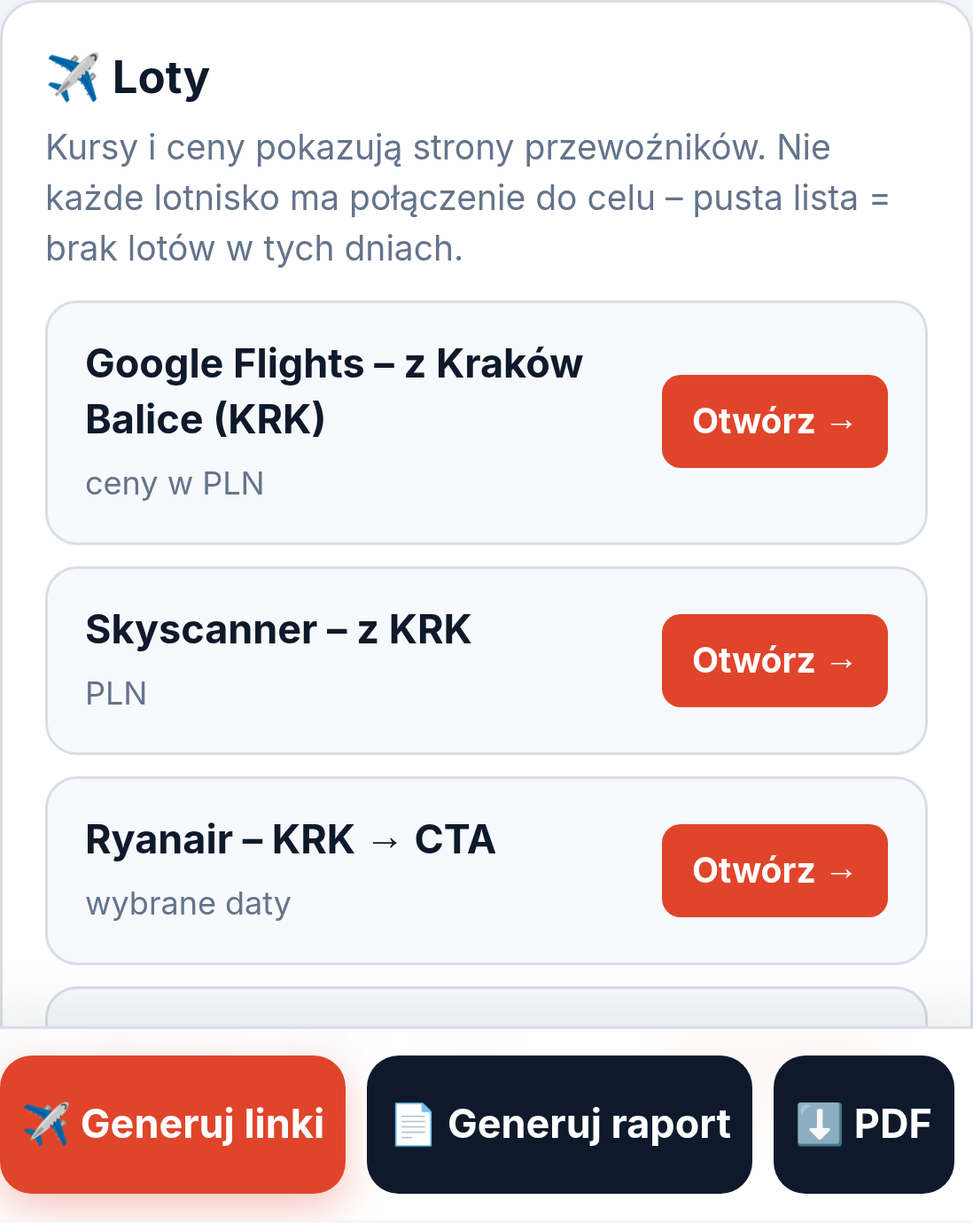
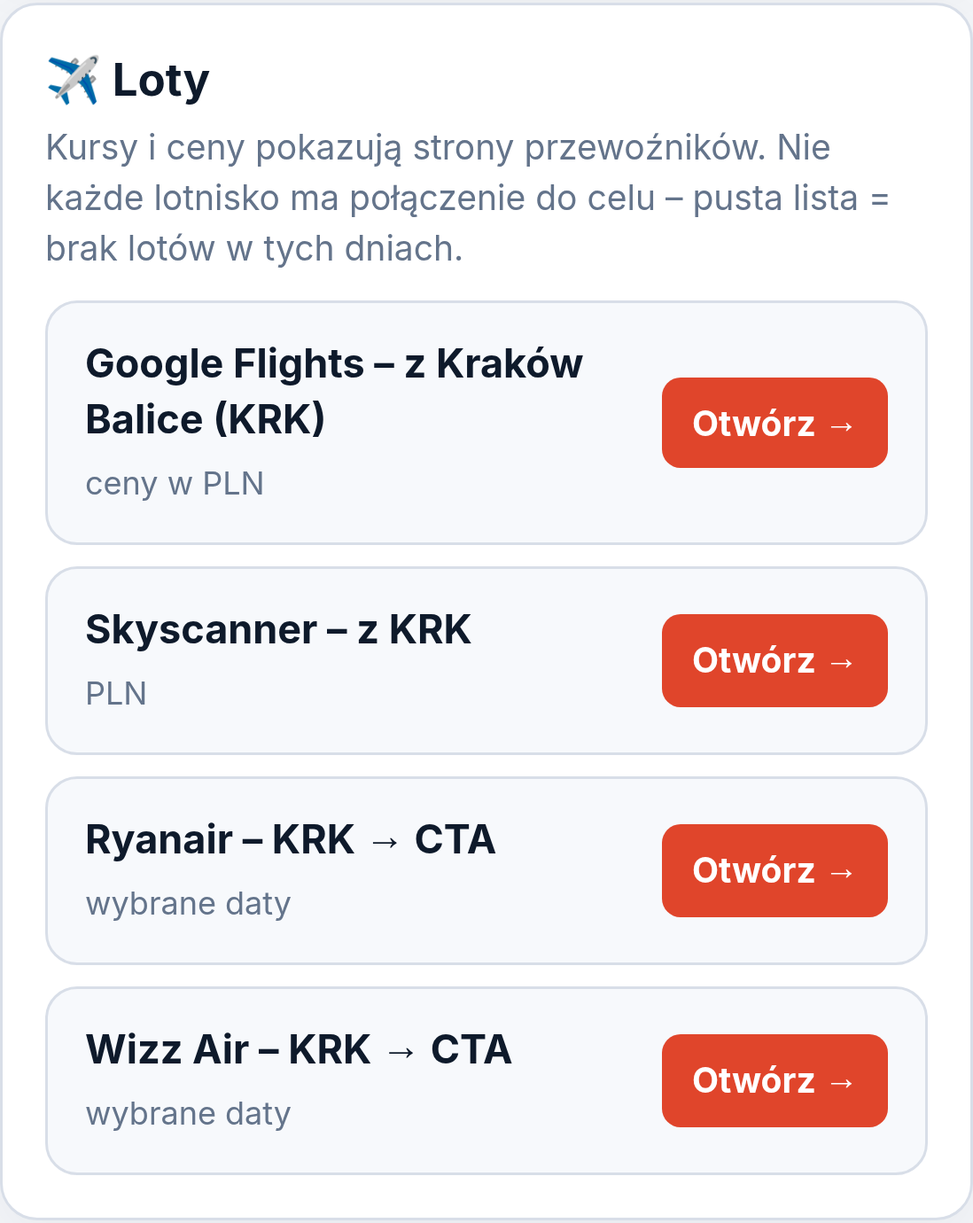
Wyszukiwanie lotów: prawdziwe ceny Ryanair (API), komunikat o braku lotów i alternatywy, loty w raporcie i PDF (v1.1)

diff --git a/js/flights.js b/js/flights.js
@@ -1,0 +1,121 @@
+/* Wyszukiwanie lotów – prawdziwe ceny z publicznego API Ryanair (CORS: *). Żadnych wymyślonych cen.
+   © Wojciech Wieczorek */
+'use strict';
+window.FL = (() => {
+  const L = window.PL, { AIRPORTS } = window.PD;
+  const RA = 'https://www.ryanair.com/api/views/locate/searchWidget/routes/pl/airport/';
+  const FF = 'https://services-api.ryanair.com/farfnd/v4/oneWayFares/';
+  const cache = new Map();
+  async function getJSON(url, tries = 2) {
+    if (cache.has(url)) return cache.get(url);
+    const p = (async () => {
+      for (let i = 0; i < tries; i++) {
+        try {
+          const ctl = new AbortController(); const t = setTimeout(() => ctl.abort(), 15000);
+          const r = await fetch(url, { signal: ctl.signal }); clearTimeout(t);
+          if (r.status === 404) return null;
+          if (r.ok) return await r.json();
+        } catch (_) { }
+        await new Promise(r => setTimeout(r, 600));
+      }
+      throw new Error('net');
+    })();
+    cache.set(url, p); p.catch(() => cache.delete(url));
+    return p;
+  }
+  // ograniczenie równoległości
+  async function pool(tasks, n = 6) { const out = []; let i = 0; await Promise.all(Array.from({ length: n }, async () => { while (i < tasks.length) { const k = i++; try { out[k] = await tasks[k](); } catch (e) { out[k] = { error: e }; } } })); return out; }
+
+  async function routes(code) { const j = await getJSON(RA + code); return (j || []).map(r => ({ code: r.arrivalAirport.code, name: r.arrivalAirport.name, city: r.arrivalAirport.city && r.arrivalAirport.city.name, country: r.arrivalAirport.country && r.arrivalAirport.country.name, lat: r.arrivalAirport.coordinates.latitude, lon: r.arrivalAirport.coordinates.longitude })); }
+  const monthKey = d => `${d.getFullYear()}-${String(d.getMonth() + 1).padStart(2, '0')}-01`;
+  // najtańszy lot każdego dnia w miesiącu (cena za 1 osobę, PLN)
+  async function perDay(from, to, months) {
+    const res = {};
+    const js = await Promise.all([...new Set(months)].map(m => getJSON(`${FF}${from}/${to}/cheapestPerDay?outboundMonthOfDate=${m}&currency=PLN`)));
+    js.forEach(j => ((j && j.outbound && j.outbound.fares) || []).forEach(f => { if (f.price && !f.unavailable && !f.soldOut) res[f.day] = { price: f.price.value, dep: f.departureDate, arr: f.arrivalDate }; }));
+    return res;
+  }
+  const dist = (a, b, c, d) => { const R = 6371, r = x => x * Math.PI / 180; const x = Math.sin(r(c - a) / 2) ** 2 + Math.cos(r(a)) * Math.cos(r(c)) * Math.sin(r(d - b) / 2) ** 2; return 2 * R * Math.asin(Math.sqrt(x)); };
+  const iso = L.iso, addDays = L.addDays;
+  const pax = f => Math.max(1, +f.adults || 1) + Math.max(0, +f.children || 0);
+  function bookUrl(f, o, d, out, back) {
+    return `https://www.ryanair.com/pl/pl/trip/flights/select?adults=${Math.max(1, +f.adults || 1)}&teens=0&children=${Math.max(0, +f.children || 0)}&infants=0&dateOut=${out}&dateIn=${back}&isConnectedFlight=false&isReturn=true&discount=0&promoCode=&originIata=${o}&destinationIata=${d}`;
+  }
+  // kombinacje tam/powrót o zadanej liczbie nocy
+  function combos(f, o, d, outMap, inMap, days, nights, exactOut) {
+    const r = [];
+    days.forEach(day => {
+      const a = outMap[day]; if (!a) return;
+      const back = iso(addDays(new Date(day + 'T00:00:00'), nights)); const b = inMap[back]; if (!b) return;
+      const pp = Math.round((a.price + b.price) * 100) / 100;
+      r.push({ airline: 'Ryanair', from: o, to: d, out: day, back, outDep: a.dep, outArr: a.arr, inDep: b.dep, inArr: b.arr, priceOut: a.price, priceIn: b.price, perPerson: pp, total: Math.round(pp * pax(f) * 100) / 100, exact: day === exactOut, url: bookUrl(f, o, d, day, back) });
+    });
+    return r;
+  }
+
+  async function search(ctx, onProgress = () => { }) {
+    const { f, dest, dt } = ctx;
+    const t0 = new Date();
+    const out = { checkedAt: t0, source: 'Ryanair (publiczne API cen)', results: [], exactFound: false, message: '', alternatives: { otherAirports: [], nearbyDest: [] }, errors: 0, searched: [] };
+    if (!dest.iata) { out.message = 'Nie znam kodu lotniska celu – wybierz cel z listy podpowiedzi albo wpisz kod IATA (np. CTA).'; return out; }
+    const destCodes = [dest.iata, ...(dest.alt || [])];
+    const origins = f.origin === 'ALL' ? AIRPORTS.map(a => a.code) : [f.origin];
+    const nights = dt.nights;
+    // dni wylotu: dokładne ±3 dni albo cały miesiąc
+    let days;
+    if (dt.mode === 'month') { days = []; for (let d = new Date(dt.monthStart); d <= dt.monthEnd; d = addDays(d, 1)) days.push(iso(d)); }
+    else days = [-3, -2, -1, 0, 1, 2, 3].map(k => iso(addDays(dt.start, k)));
+    const today = iso(new Date()); days = days.filter(d => d >= today);
+    const exactOut = dt.mode === 'exact' ? iso(dt.start) : null;
+    const outMonths = days.map(d => d.slice(0, 7) + '-01');
+    const inMonths = days.map(d => monthKey(addDays(new Date(d + 'T00:00:00'), nights)));
+
+    onProgress('Sprawdzam połączenia z lotnisk…');
+    const rts = await pool(origins.map(o => () => routes(o)));
+    const pairs = [];
+    origins.forEach((o, i) => { const r = rts[i]; if (!r || r.error) { if (r && r.error) out.errors++; return; } destCodes.forEach(dc => { if (r.some(x => x.code === dc)) pairs.push([o, dc]); }); });
+    out.searched = pairs.map(p => p.join('→'));
+    onProgress(pairs.length ? `Szukam cen (${pairs.length} ${pairs.length === 1 ? 'trasa' : 'trasy'})…` : 'Brak bezpośrednich tras – szukam alternatyw…');
+    const res = await pool(pairs.map(([o, dc]) => async () => {
+      const [om, im] = await Promise.all([perDay(o, dc, outMonths), perDay(dc, o, inMonths)]);
+      return combos(f, o, dc, om, im, days, nights, exactOut);
+    }));
+    res.forEach(r => { if (Array.isArray(r)) out.results.push(...r); else out.errors++; });
+    out.results.sort((a, b) => a.total - b.total);
+    out.exactFound = dt.mode === 'month' ? out.results.length > 0 : out.results.some(r => r.exact);
+    const oName = f.origin === 'ALL' ? 'żadnego lotniska w Polsce' : `${(AIRPORTS.find(a => a.code === f.origin) || {}).name} (${f.origin})`;
+    const when = dt.mode === 'month' ? `w miesiącu ${L.MONTHS[dt.m - 1]} ${dt.y} (pobyt ${nights} nocy)` : `w wybranych datach (${L.dm(dt.start)}–${L.dmy(dt.end)})`;
+    if (!out.exactFound) {
+      out.message = out.results.length
+        ? `Brak lotów Ryanair z ${oName} do ${dest.city} (${destCodes.join('/')}) dokładnie ${when} — poniżej najbliższe terminy (±3 dni) z tym samym czasem pobytu.`
+        : `Brak lotów Ryanair z ${oName} do ${dest.city} (${destCodes.join('/')}) ${when} — spróbuj innego lotniska, dat lub miesiąca.`;
+      // alternatywy: inne lotniska w Polsce (tylko gdy szukano jednego)
+      let others = [], ors = [];
+      if (f.origin !== 'ALL') {
+        onProgress('Sprawdzam inne lotniska w Polsce…');
+        others = AIRPORTS.map(a => a.code).filter(c => c !== f.origin);
+        ors = await pool(others.map(o => () => routes(o)));
+        const op = []; others.forEach((o, i) => { const r = ors[i]; if (Array.isArray(r)) destCodes.forEach(dc => { if (r.some(x => x.code === dc)) op.push([o, dc]); }); });
+        const ores = await pool(op.map(([o, dc]) => async () => { const [om, im] = await Promise.all([perDay(o, dc, outMonths), perDay(dc, o, inMonths)]); return combos(f, o, dc, om, im, days, nights, exactOut); }));
+        ores.forEach(r => Array.isArray(r) && out.alternatives.otherAirports.push(...r));
+        out.alternatives.otherAirports.sort((a, b) => (b.exact - a.exact) || (a.total - b.total));
+      }
+      // alternatywy: pobliskie lotniska docelowe (do 250 km) z wybranych lotnisk
+      onProgress('Sprawdzam pobliskie lotniska docelowe…');
+      const near = new Map();
+      [...origins, ...others].forEach((o, i) => { const r = i < origins.length ? rts[i] : ors[i - origins.length]; if (Array.isArray(r) && dest.lat) r.forEach(x => { const km = dist(dest.lat, dest.lon, x.lat, x.lon); if (km <= 250 && !destCodes.includes(x.code)) { if (!near.has(x.code) || near.get(x.code).km > km) near.set(x.code, { ...x, km, from: [] }); near.get(x.code).from.push(o); } }); });
+      const nl = [...near.values()].sort((a, b) => a.km - b.km).slice(0, 4);
+      nl.forEach(n => { n.from.sort((a, b) => (origins.includes(b) - origins.includes(a))); });
+      const nres = await pool(nl.flatMap(n => n.from.slice(0, 3).map(o => async () => { const [om, im] = await Promise.all([perDay(o, n.code, outMonths), perDay(n.code, o, inMonths)]); return combos(f, o, n.code, om, im, days, nights, exactOut).map(x => ({ ...x, km: Math.round(n.km), toName: n.name })); })));
+      nres.forEach(r => Array.isArray(r) && out.alternatives.nearbyDest.push(...r));
+      out.alternatives.nearbyDest.sort((a, b) => (b.exact - a.exact) || (a.total - b.total));
+    }
+    out.doneAt = new Date();
+    return out;
+  }
+  const hm = s => s ? s.slice(11, 16) : '';
+  const fmtDate = s => { const d = new Date(s.slice(0, 10) + 'T00:00:00'); return `${L.DOW_S[d.getDay()]} ${L.dm(d)}`; };
+  const zl2 = v => `${v.toLocaleString('pl-PL', { minimumFractionDigits: 2, maximumFractionDigits: 2 }).replace(/\u00a0|\u202f/g, ' ')} zł`;
+  const stamp = d => `${L.dmy(d)}, ${String(d.getHours()).padStart(2, '0')}:${String(d.getMinutes()).padStart(2, '0')}`;
+  return { search, hm, fmtDate, zl2, stamp, pax };
+})();

diff --git a/js/app.js b/js/app.js
@@ -120,6 +120,54 @@
       <p class="src">${esc(w.source)}${w.sea ? ` · morze ok. ${Math.round(w.sea)}°C (te same dni rok wcześniej)` : ''}. Dane: Open-Meteo.com (CC BY 4.0).</p>`;
   }
 
+  // --- prawdziwe loty (Ryanair API) ---
+  const F = window.FL;
+  function legHtml(label, date, dep, arr, from, to) {
+    return `<div class="fl-leg"><span class="d">${label} ${esc(F.fmtDate(date))}</span><span class="t">${esc(F.hm(dep))} → ${esc(F.hm(arr))}</span><span class="r">${esc(from)} → ${esc(to)}</span></div>`;
+  }
+  function flCard(r, extra = '') {
+    const n = F.pax(ctx.f);
+    return `<div class="fl-card${r.exact ? ' exact' : ''}" data-total="${r.total}">
+      <div class="fl-top"><div><span class="fl-air">✈ ${esc(r.airline)} · bez przesiadek</span>${r.exact ? '<span class="fl-badge">Twoje daty</span>' : ''}${extra}</div>
+      <div><div class="fl-price">${F.zl2(r.total)}</div><div class="fl-pp">${n > 1 ? `${F.zl2(r.perPerson)} / os. × ${n}` : 'za osobę, tam i z powrotem'}</div></div></div>
+      ${legHtml('Wylot', r.out, r.outDep, r.outArr, r.from, r.to)}
+      ${legHtml('Powrót', r.back, r.inDep, r.inArr, r.to, r.from)}
+      <a class="fl-book" href="${esc(r.url)}" target="_blank" rel="noopener">Rezerwuj w Ryanair →</a></div>`;
+  }
+  function renderFlights() {
+    const el = $('#flightsCard'), c = ctx; el.hidden = false;
+    const fl = c.fl;
+    if (!fl || fl.loading) { el.innerHTML = `<div class="fl-head"><h3>✈ Znalezione loty</h3></div><div class="fl-load"><span class="spin"></span><span id="flProg">${esc((fl && fl.progress) || 'Szukam lotów…')}</span></div>`; return; }
+    if (fl.failed) { el.innerHTML = `<h3>✈ Znalezione loty</h3><div class="fl-msg">Nie udało się połączyć z wyszukiwarką lotów (brak internetu?). Spróbuj ponownie albo użyj linków poniżej.</div><button class="btn ghost fl-more" id="flRetry">Spróbuj ponownie</button>`; $('#flRetry').onclick = () => run(); return; }
+    const r = fl.results;
+    let h = `<div class="fl-head"><h3>✈ Znalezione loty</h3></div><p class="fl-stamp">Ceny z dnia ${esc(F.stamp(fl.checkedAt))} · źródło: ${esc(fl.source)} · ${r.length} ${r.length === 1 ? 'wynik' : 'wyników'}, od najtańszego</p>`;
+    if (fl.message) h += `<div class="fl-msg">${esc(fl.message)}</div>`;
+    if (r.length) {
+      h += r.slice(0, 6).map(x => flCard(x)).join('');
+      if (r.length > 6) h += `<details class="more"><summary>Pokaż więcej wyników (${r.length - 6})</summary>${r.slice(6, 40).map(x => flCard(x)).join('')}</details>`;
+    }
+    const A = fl.alternatives || {};
+    if (!fl.exactFound && (A.otherAirports.length || A.nearbyDest.length)) {
+      h += `<div class="fl-alt">`;
+      if (A.otherAirports.length) {
+        const best = {}; A.otherAirports.forEach(x => { if (!best[x.from]) best[x.from] = x; });
+        h += `<h4>💡 Z innych lotnisk w Polsce</h4>` + Object.values(best).slice(0, 4).map(x => flCard(x, '') + `<button class="btn ghost use" data-origin="${x.from}">Szukaj z ${esc((AIRPORTS.find(a => a.code === x.from) || {}).name || x.from)} (${x.from})</button>`).join('');
+      }
+      if (A.nearbyDest.length) {
+        const best = {}; A.nearbyDest.forEach(x => { const k = x.from + x.to; if (!best[k]) best[k] = x; });
+        h += `<h4>💡 Pobliskie lotniska docelowe</h4>` + Object.values(best).slice(0, 4).map(x => flCard(x, `<span class="fl-badge" style="background:#3b82f6">${esc(x.toName)} · ${x.km} km</span>`) + `<button class="btn ghost use" data-dest="${x.to}" data-origin="${x.from}">Szukaj do ${esc(x.toName)} (${x.to})</button>`).join('');
+      }
+      h += `</div>`;
+    } else if (!r.length && !fl.message) h += `<div class="fl-msg">Brak wyników.</div>`;
+    h += `<p class="fl-note">Wyszukiwanie obejmuje loty bezpośrednie Ryanair (najtańszy lot danego dnia). Wizz Air i inne linie – sprawdź linkami poniżej. Cena łączna = taryfa za osobę × liczba osób, bez bagażu rejestrowanego; ostateczną cenę pokaże strona przewoźnika.</p>`;
+    el.innerHTML = h;
+    el.querySelectorAll('.use').forEach(b => b.onclick = () => {
+      if (b.dataset.origin) $('#origin').value = b.dataset.origin;
+      if (b.dataset.dest) { const d = DEST.find(x => x.iata === b.dataset.dest || (x.alt || []).includes(b.dataset.dest)); $('#dest').value = d ? `${d.name} (${d.iata})` : b.dataset.dest; }
+      save(); sums(); run().then(() => $('#flightsCard').scrollIntoView({ behavior: 'smooth', block: 'start' }));
+    });
+  }
+
   async function run() {
     const f = read();
     if (!f.dest || !f.dest.trim()) { steps[0].open = true; $('#err').textContent = 'Wpisz cel podróży (np. Katania) albo wybierz z podpowiedzi.'; $('#err').hidden = false; $('#dest').focus(); return null; }
@@ -127,12 +175,15 @@
     $('#err').hidden = true; save();
     ctx = compute(); render();
     const my = ctx;
+    my.fl = { loading: true, progress: 'Szukam lotów…' }; renderFlights();
+    my.flPromise = F.search(my, m => { if (ctx === my && my.fl && my.fl.loading) { my.fl.progress = m; const p = document.getElementById('flProg'); if (p) p.textContent = m; } })
+      .then(r => { my.fl = r; }).catch(() => { my.fl = { failed: true }; }).finally(() => { if (ctx === my) renderFlights(); });
     my.wxPromise = L.weather(my.dest, my.dt).then(w => { my.wx = w; }).catch(() => { my.wx = null; }).finally(() => { if (ctx === my) renderWeather(); });
     return ctx;
   }
   form.addEventListener('submit', async e => { e.preventDefault(); if (await run()) $('#summary').scrollIntoView({ behavior: 'smooth', block: 'start' }); });
 
-  async function ready() { if (!ctx) await run(); if (!ctx) return null; await Promise.race([ctx.wxPromise, new Promise(r => setTimeout(r, 8000))]); return ctx; }
+  async function ready() { if (!ctx) await run(); if (!ctx) return null; await Promise.race([Promise.all([ctx.wxPromise, ctx.flPromise]), new Promise(r => setTimeout(r, 30000))]); return ctx; }
 
   // --- raport HTML (A4) ---
   let lastHtml = '';
@@ -156,5 +207,5 @@
   $('#pdf2').addEventListener('click', e => doPdf(e.currentTarget));
 
   if ('serviceWorker' in navigator && location.protocol === 'https:') navigator.serviceWorker.register('sw.js').catch(() => { });
-  window.__planer = { run, get ctx() { return ctx; } };
+  window.__planer = { run, ready, get ctx() { return ctx; } };
 })();

diff --git a/js/report.js b/js/report.js
@@ -61,6 +61,20 @@ window.REPORT = (() => {
     const flMore = fl.length > (f.origin === 'ALL' ? 12 : 8) ? `<p class="footnote">+ ${fl.length - (f.origin === 'ALL' ? 12 : 8)} kolejnych linków (Ryanair / Wizz Air dla każdego lotniska) – w aplikacji i na liście linków na końcu raportu.</p>` : '';
     fl.slice(f.origin === 'ALL' ? 12 : 8).forEach(i => reg(i.label, i.url));
 
+    // --- Prawdziwe loty ---
+    const F = window.FL, FLs = c.fl && c.fl.results ? c.fl : null;
+    let realFl = '';
+    if (!FLs) realFl = '<p class="tl-note">Wyszukiwanie lotów nie zakończyło się (brak połączenia) – użyj linków poniżej.</p>';
+    else {
+      const rows = FLs.results.slice(0, 6);
+      const alt = (!FLs.exactFound ? [...FLs.alternatives.otherAirports.slice(0, 3), ...FLs.alternatives.nearbyDest.slice(0, 3)] : []);
+      const row = (r, n, tag = '') => `<tr${r.exact ? ' class="highlight"' : ''}><td>${A(reg(`Ryanair ${r.from}→${r.to} ${r.out}/${r.back}`, r.url), `${r.from} ⇄ ${r.to}`)}${tag}</td><td>${esc(F.fmtDate(r.out))}<br>${esc(F.fmtDate(r.back))}</td><td>${esc(F.hm(r.outDep))}–${esc(F.hm(r.outArr))}<br>${esc(F.hm(r.inDep))}–${esc(F.hm(r.inArr))}</td><td>Ryanair</td><td>bez przesiadek</td><td class="price">${esc(F.zl2(r.total))}${persons > 1 ? `<br><span class="muted">${esc(F.zl2(r.perPerson))}/os.</span>` : ''}</td><td>${A(r.url, 'Rezerwuj →', 'book-link')}</td></tr>`;
+      realFl = (FLs.message ? `<div class="tl-note" style="margin-bottom:4px">${esc(FLs.message)}</div>` : '')
+        + (rows.length || alt.length ? `<table><thead><tr><th>Kierunek</th><th>Data</th><th>Godziny</th><th>Przewoźnik</th><th>Przesiadki</th><th>Cena${persons > 1 ? ` (${persons} os.)` : ''}</th><th></th></tr></thead><tbody>${rows.map((r, n) => row(r, n)).join('')}${alt.map(r => row(r, 0, `<br><span class="muted">alternatywa${r.km ? ` · ${esc(r.toName)} ${r.km} km od celu` : ' · inne lotnisko'}</span>`)).join('')}</tbody></table>` : '')
+        + `<p class="footnote">Prawdziwe ceny z publicznego API Ryanair (najtańszy lot danego dnia, tam i z powrotem), pobrane ${esc(F.stamp(FLs.checkedAt))}. Cena łączna = taryfa za osobę × ${persons}; zwykle bez bagażu rejestrowanego. Ceny zmieniają się – sprawdź przed rezerwacją. Wizz Air i inne linie: linki poniżej.</p>`;
+    }
+    const bestFl = FLs && FLs.results.length ? (FLs.results.find(r => r.exact) || FLs.results[0]) : null;
+
     // --- Nocleg ---
     const accRows = G('nocleg').items.map((i, n) => `<tr${n === 0 ? ' class="highlight"' : ''}><td>${n === 0 ? '<span class="tag">1</span>' : ''}${A(reg(i.label, i.url), esc(i.label))}</td><td>${esc(ACC[f.accType] || 'dowolny')}</td><td>${f.breakfast === 'tak' || i.kind === 'bf' ? 'tak' : f.breakfast === 'nie' ? 'nie' : 'obojętne'}</td><td>${esc(DIST[f.distance])}</td><td>${dt.nights}</td><td class="chk">sprawdź</td><td>${A(i.url, 'Szukaj →', 'book-link')}</td></tr>`).join('');
 
@@ -95,6 +109,7 @@ window.REPORT = (() => {
 <div class="summary">
  <div class="summary-card best"><div class="label">Wariant oszczędny (szacunek)</div><div class="total">ok. ${fmt(est.low)}</div><div class="breakdown">Loty ~${fmt(est.flights[0])} + nocleg ~${fmt(est.accom[0])}<br>+ jedzenie, transport${est.att ? ', bilety' : ''} (taniej)</div></div>
  <div class="summary-card"><div class="label">Wariant wygodniejszy (szacunek)</div><div class="total">ok. ${fmt(est.high)}</div><div class="breakdown">Loty ~${fmt(est.flights[1])} + nocleg ~${fmt(est.accom[1])}<br>+ jedzenie, transport${est.att ? ', bilety' : ''} (wygodniej)</div></div>
+ ${bestFl ? `<div class="summary-card"><div class="label">Najtańszy znaleziony lot</div><div class="total">${esc(F.zl2(bestFl.total))}</div><div class="breakdown">Ryanair ${bestFl.from} ⇄ ${bestFl.to}, ${esc(F.fmtDate(bestFl.out))} – ${esc(F.fmtDate(bestFl.back))}<br>prawdziwa cena, z dnia ${esc(F.stamp(FLs.checkedAt))}</div></div>` : ''}
  ${est.budget ? `<div class="summary-card"><div class="label">Twój budżet</div><div class="total">${fmt(est.budget)}</div><div class="breakdown">${est.low > est.budget ? 'Może nie wystarczyć – krótszy pobyt / hostel / inny miesiąc.' : est.high > est.budget ? 'Wystarczy przy tańszych wyborach.' : 'Powinien wystarczyć.'}</div></div>` : ''}
 </div>
 <p class="footnote">Kwoty to orientacyjne widełki z wbudowanego modelu cen (poziom cen kierunku, sezon, liczba osób) – <strong>nie są cenami ofert</strong>. Aktualne ceny pokazują linki poniżej.</p>
@@ -105,7 +120,9 @@ window.REPORT = (() => {
   <table><thead><tr><th>Odcinek</th><th>Środek</th><th>Info</th><th></th></tr></thead><tbody>${xr}</tbody></table>
   <p class="footnote">${esc(dest.xfer || 'Najtańszy zwykle autobus lub pociąg – sprawdź rozkład w Google Maps.')} Ceny i rozkłady sprawdź przed wyjazdem.</p></div>
 </div>
-<h2>Loty</h2>
+<h2>Loty – znalezione (Ryanair, ceny z dnia ${FLs ? esc(F.stamp(FLs.checkedAt)) : '—'})</h2>
+${realFl}
+<h3>Inne wyszukiwarki lotów</h3>
 <table><thead><tr><th>Trasa</th><th>Daty</th><th>Wyszukiwarka</th><th>Uwagi</th><th>Cena</th><th></th></tr></thead><tbody>${flRows}</tbody></table>
 <p class="footnote">Najtańsze taryfy tanich linii zwykle bez bagażu rejestrowanego. ${dt.sample ? 'Tryb „miesiąc”: Skyscanner i Ryanair pokazują cały miesiąc, pozostałe linki mają przykładowe daty – zmień je na stronie.' : ''}</p>
 <h2>Nocleg (${dt.nights} nocy, ${f.breakfast === 'tak' ? 'ze śniadaniem' : f.breakfast === 'nie' ? 'bez śniadania' : 'śniadanie obojętne'}, Booking.com)</h2>

diff --git a/js/pdf.js b/js/pdf.js
@@ -107,7 +107,19 @@ window.PDFR = (() => {
       { columnStyles: { 0: { cellWidth: 30 }, 1: { cellWidth: 34 }, 3: { cellWidth: 22 } }, ...linkCol(3, xi.map(i => reg(i.label, i.url)), () => 'Sprawdź →') });
     if (dest.xfer) para(dest.xfer + ' Rozkłady i ceny sprawdź przed wyjazdem.', M, CW, 6.8, 'normal', MUTED);
 
-    h2('Loty');
+    const FLs = c.fl && c.fl.results ? c.fl : null, F = window.FL;
+    h2(`Loty – znalezione (Ryanair${FLs ? ', ceny z dnia ' + F.stamp(FLs.checkedAt) : ''})`);
+    if (!FLs) para('Wyszukiwanie lotów nie zakończyło się (brak połączenia) – użyj linków poniżej.', M, CW, 7.5, 'bold', [122, 42, 28]);
+    else {
+      if (FLs.message) para(FLs.message, M, CW, 7.5, 'bold', [122, 42, 28]);
+      const alt = !FLs.exactFound ? [...FLs.alternatives.otherAirports.slice(0, 3), ...FLs.alternatives.nearbyDest.slice(0, 3)] : [];
+      const rr = [...FLs.results.slice(0, 6), ...alt];
+      if (rr.length) table(['Kierunek', 'Data', 'Godziny', 'Przewoźnik', `Cena${persons > 1 ? ` (${persons} os.)` : ''}`, ''],
+        rr.map(r => [`${r.from} ↔ ${r.to}${r.exact ? '\nTwoje daty' : ''}${FLs.results.includes(r) ? '' : r.km ? `\nalternatywa: ${r.toName} ${r.km} km` : '\nalternatywa: inne lotnisko'}`, `${F.fmtDate(r.out)}\n${F.fmtDate(r.back)}`, `${F.hm(r.outDep)}–${F.hm(r.outArr)}\n${F.hm(r.inDep)}–${F.hm(r.inArr)}`, 'Ryanair\nbez przesiadek', `${F.zl2(r.total)}${persons > 1 ? `\n${F.zl2(r.perPerson)}/os.` : ''}`, '']),
+        { columnStyles: { 0: { cellWidth: 44, textColor: ACCENT, fontStyle: 'bold' }, 4: { fontStyle: 'bold' }, 5: { cellWidth: 22 } }, ...merge(linkCol(5, rr.map(r => reg(`Ryanair ${r.from}→${r.to} ${r.out}/${r.back}`, r.url)), () => 'Rezerwuj →'), nameLinks(0, rr.map(r => r.url))) });
+      para(`Prawdziwe ceny z publicznego API Ryanair (najtańszy lot danego dnia), pobrane ${F.stamp(FLs.checkedAt)}. Cena łączna = taryfa za osobę × ${persons}; zwykle bez bagażu rejestrowanego. Wizz Air i inne linie – linki poniżej.`, M, CW, 6.8, 'normal', MUTED);
+    }
+    h2('Inne wyszukiwarki lotów');
     const lim = f.origin === 'ALL' ? 12 : 8, fl = G('loty').items, flShow = fl.slice(0, lim);
     table(['Trasa / serwis', 'Daty', 'Uwagi', 'Cena', ''], flShow.map(i => [i.label, dt.mode === 'month' ? `${L.MONTHS[dt.m - 1]} ${dt.y}` : `${L.dm(dt.start)} ↔ ${L.dm(dt.end)}`, i.note || '', 'sprawdź w linku', '']),
       { columnStyles: { 0: { cellWidth: 62, textColor: ACCENT, fontStyle: 'bold' }, 1: { cellWidth: 28 }, 3: { cellWidth: 24, textColor: MUTED }, 4: { cellWidth: 22 } }, ...merge(linkCol(4, flShow.map(i => reg(i.label, i.url)), () => 'Rezerwuj →'), nameLinks(0, flShow.map(i => i.url))) });

diff --git a/style.css b/style.css
@@ -128,3 +128,27 @@ details.fs[open] .sum{display:none}
 .ob-actions{flex-wrap:nowrap;overflow-x:auto}
 .ob-actions .btn{white-space:nowrap;padding:8px 10px}
 #reportFrame{margin:0 auto calc(8px + env(safe-area-inset-bottom));border-radius:8px 8px 0 0}
+/* --- wyniki lotów --- */
+.fl-head{display:flex;justify-content:space-between;align-items:flex-start;gap:8px}
+.fl-head h3{margin:0;font-size:17px}
+.fl-stamp{font-size:12px;color:var(--muted);margin:2px 0 10px}
+.fl-load{display:flex;align-items:center;gap:10px;padding:14px 0;color:#334155;font-weight:600;font-size:14px}
+.spin{width:22px;height:22px;border-radius:50%;border:3px solid var(--line);border-top-color:var(--acc);animation:sp 0.8s linear infinite;flex-shrink:0}
+@keyframes sp{to{transform:rotate(360deg)}}
+.fl-msg{background:#fff5f3;border:1px solid #f5c4ba;color:#7a2a1c;border-radius:12px;padding:12px 14px;font-size:14px;font-weight:600;margin-bottom:10px}
+.fl-card{border:1px solid var(--line);border-radius:14px;padding:12px 14px;margin-bottom:10px;background:#fff;position:relative}
+.fl-card.exact{border:2px solid var(--acc);background:#fffaf9}
+.fl-top{display:flex;justify-content:space-between;align-items:baseline;gap:8px}
+.fl-price{font-size:22px;font-weight:800;color:var(--acc);letter-spacing:-.02em}
+.fl-pp{font-size:12px;color:var(--muted);text-align:right}
+.fl-air{font-size:13px;font-weight:700;color:var(--navy)}
+.fl-badge{display:inline-block;background:var(--acc);color:#fff;font-size:11px;font-weight:700;border-radius:6px;padding:2px 7px;margin-left:6px;vertical-align:middle}
+.fl-leg{display:grid;grid-template-columns:auto 1fr auto;gap:2px 10px;align-items:center;margin-top:8px;font-size:14px}
+.fl-leg .d{font-weight:700;color:#334155;font-size:13px;min-width:74px}
+.fl-leg .t{font-weight:700;font-size:15px}
+.fl-leg .r{font-size:12px;color:var(--muted);text-align:right;white-space:nowrap}
+.fl-book{display:flex;align-items:center;justify-content:center;margin-top:10px;min-height:48px;border-radius:11px;background:var(--navy);color:#fff;text-decoration:none;font-weight:700;font-size:15px}
+.fl-more{width:100%;margin-top:4px}
+.fl-alt h4{margin:14px 0 6px;font-size:15px}
+.fl-alt .use{width:100%;margin-top:8px;min-height:44px}
+.fl-note{font-size:12px;color:var(--muted);margin-top:8px}

diff --git a/sw.js b/sw.js
@@ -1,7 +1,7 @@
 /* Andrzej Sowa · Planer – service worker (© Wojciech Wieczorek). Sieć najpierw, offline z pamięci. */
-const VERSION = 'v1';
+const VERSION = 'v2';
 const CACHE = `sowa-planer-${VERSION}`;
-const FILES = ['./', './index.html', './style.css', './manifest.webmanifest', './js/version.js', './js/data.js', './js/logic.js', './js/report.js', './js/pdf.js', './js/app.js',
+const FILES = ['./', './index.html', './style.css', './manifest.webmanifest', './js/version.js', './js/data.js', './js/logic.js', './js/flights.js', './js/report.js', './js/pdf.js', './js/app.js',
   './assets/logo.svg', './assets/fonts.css', './assets/icons/icon-192.png', './assets/icons/icon-512.png', './assets/icons/icon-180.png',
   './assets/vendor/jspdf.umd.min.js', './assets/vendor/jspdf.plugin.autotable.min.js', './assets/vendor/pdf-fonts.js'];
 self.addEventListener('install', e => e.waitUntil(caches.open(CACHE).then(c => Promise.all(FILES.map(u => c.add(new Request(u, { cache: 'reload' })).catch(() => { })))).then(() => self.skipWaiting())));

diff --git a/index.html b/index.html
@@ -116,6 +116,7 @@
   <section id="out" hidden>
     <div class="card summary" id="summary"></div>
     <div class="note-safe">🔒 <strong>Nic nie rezerwujemy i nic nie płacimy.</strong> Aplikacja tylko przygotowuje linki do wyszukiwarek – ceny i dostępność sprawdzasz i rezerwujesz sam na stronach przewoźników i serwisów.</div>
+    <div class="card" id="flightsCard" hidden></div>
     <div id="groups"></div>
     <div class="card" id="budgetCard"></div>
     <div class="card" id="weatherCard"></div>
@@ -150,6 +151,7 @@
 <script src="js/version.js"></script>
 <script src="js/data.js"></script>
 <script src="js/logic.js"></script>
+<script src="js/flights.js"></script>
 <script src="js/report.js"></script>
 <script src="js/pdf.js"></script>
 <script src="js/app.js"></script>

diff --git a/js/version.js b/js/version.js
@@ -1,1 +1,1 @@
-window.APP_VERSION='v1.0 · 2026-11-06';
+window.APP_VERSION='v1.1 · 2026-11-06';

diff --git a/tests/test_e2e.py b/tests/test_e2e.py
@@ -45,6 +45,14 @@ def run(pw, name, ctx_opts, browser):
     pg.click('#barLinks')
     pg.wait_for_selector('#groups a.lnk')
     pg.wait_for_function('() => !document.querySelector("#weatherCard").textContent.includes("Ładowanie")', timeout=20000)
+    pg.wait_for_selector('#flightsCard .fl-stamp', timeout=60000)
+    ftxt = pg.inner_text('#flightsCard')
+    ok('Ceny z dnia' in ftxt and pg.locator('#flightsCard .fl-card.exact').count() >= 1, 'Loty: prawdziwe wyniki Ryanair KRK→CTA w Twoich datach')
+    prices = [float(x) for x in pg.eval_on_selector_all('#flightsCard > .fl-card', 'els => els.map(e => e.dataset.total)')]
+    ok(prices == sorted(prices) and len(prices) > 0, f'Loty: sortowane po cenie {prices[:4]}')
+    fb = pg.get_attribute('#flightsCard .fl-card.exact a.fl-book', 'href')
+    ok('ryanair.com' in fb and 'dateOut=2026-11-16' in fb and 'adults=2' in fb and 'children=1' in fb, 'Loty: link Rezerwuj do Ryanair z datami i osobami')
+    pg.locator('#flightsCard').screenshot(path=f'{SHOTS}/{name}-8-loty-wyniki.png')
     L = links(pg); G = {}
     for l in L: G.setdefault(l['g'], []).append(l)
     gf = [l['u'] for l in L if 'google.com/travel/flights' in l['u']][0]
@@ -79,6 +87,7 @@ def run(pw, name, ctx_opts, browser):
     ok('Podsumowanie kosztów' in rt and 'Harmonogram' in rt and 'Loty' in rt and 'Nocleg' in rt and 'Plan dnia po dniu' in rt and 'Praktyczne' in rt, 'Raport: sekcje jak we wzorze')
     ok('Rezerwuj →' in rt and 'Wypożyczalnie skuterów' in rt and 'Rower elektryczny (e-bike)' in rt and 'Rower (zwykły)' in rt, 'Raport: Rezerwuj, skutery, e-bike, rower')
     ok('Rent in Catania' in rt, 'Raport: zweryfikowane firmy dla Katanii')
+    ok('Loty – znalezione (Ryanair, ceny z dnia' in rt and 'bez przesiadek' in rt and 'najtańszy znaleziony lot' in rt.lower(), 'Raport: prawdziwe loty w tabeli')
     pg.screenshot(path=f'{SHOTS}/{name}-7-raport.png')
     # PDF
     with pg.expect_event('download' if 'iphone' not in name else 'popup', timeout=30000) as ev:
@@ -93,6 +102,15 @@ def run(pw, name, ctx_opts, browser):
     # localStorage
     pg.reload(wait_until='networkidle')
     ok(pg.input_value('#dest').startswith('Katania') and pg.input_value('[name=adults]') == '2' and pg.is_checked('#tr input[value=ebike]'), 'Formularz zapamiętany (localStorage)')
+    # trasa bez lotów: Lublin → Katania
+    pg.select_option('#origin', 'LUZ'); pg.click('#barLinks')
+    pg.wait_for_selector('#flightsCard .fl-stamp', timeout=90000)
+    ftxt = pg.inner_text('#flightsCard')
+    ok('Brak lotów Ryanair z Lublin (LUZ) do Katania' in ftxt, 'Brak lotów: komunikat po polsku')
+    ok('Z innych lotnisk w Polsce' in ftxt and pg.locator('#flightsCard .use').count() >= 1, 'Brak lotów: alternatywy z innych lotnisk')
+    pg.locator('#flightsCard').screenshot(path=f'{SHOTS}/{name}-9-brak-lotow.png')
+    pg.locator('#flightsCard .use').first.click(); pg.wait_for_selector('#flightsCard .fl-card.exact', timeout=60000)
+    ok(pg.input_value('#origin') != 'LUZ', 'Alternatywa: przycisk „Szukaj z …” zmienia lotnisko i szuka')
     # tryb miesiąc + wszystkie lotniska
     pg.select_option('#origin', 'ALL')
     pg.click('details[data-step="2"] summary'); pg.click('.seg label:has(input[value=month])'); pg.fill('#month', '2027-02'); pg.fill('[name=nights]', '5')
@@ -101,6 +119,10 @@ def run(pw, name, ctx_opts, browser):
     ok(any('/transport/loty/pl/cta/' in l['u'] and 'oym=2702' in l['u'] for l in L2), 'Miesiąc + wszystkie: Skyscanner z całej Polski, cały miesiąc')
     ok(sum(1 for l in L2 if 'google.com/travel/flights' in l['u']) == 15, 'Miesiąc + wszystkie: Google Flights dla każdego z 15 lotnisk')
     ok(any('fare-finder' in l['u'] and 'daysTrip=5' in l['u'] for l in L2), 'Miesiąc: Ryanair fare-finder')
+    pg.wait_for_selector('#flightsCard .fl-stamp', timeout=90000)
+    froms = pg.eval_on_selector_all('#flightsCard > .fl-card .fl-leg .r', 'els => els.map(e => e.textContent)')
+    ok(len(froms) > 0, f'Miesiąc + wszystkie lotniska: wyniki {froms[:4]}')
+    pg.locator('#flightsCard').screenshot(path=f'{SHOTS}/{name}-10-miesiac-wszystkie.png')
     ok(not errs, f'brak błędów JS {errs[:2]}')
     ctx.close()
 
@@ -123,7 +145,7 @@ with sync_playwright() as pw:
     ctx = ch.new_context(viewport={'width': 1280, 'height': 900}, locale='pl-PL', timezone_id='Europe/Warsaw'); pg = ctx.new_page()
     pg.goto(URL, wait_until='networkidle')
     fill(pg); pg.click('#barLinks'); pg.wait_for_selector('#groups a.lnk')
-    pg.wait_for_function('() => window.__planer.ctx && window.__planer.ctx.wx', timeout=20000)
+    pg.evaluate('() => window.__planer.ready()')
     html = pg.evaluate('() => window.REPORT.html(window.__planer.ctx)')
     rp = ctx.new_page(); rp.set_viewport_size({'width': 794, 'height': 1123}); rp.goto(URL); rp.set_content(html, wait_until='networkidle')
     rp.screenshot(path=f'{SHOTS}/{TAG}-raport-A4-html.png', full_page=True)

diff --git a/README.md b/README.md
@@ -1,12 +1,12 @@
 # Andrzej Sowa · Planer tanich wyjazdów
 
 Aplikacja webowa (PWA, mobile-first) do samodzielnego planowania tanich wyjazdów.
-Formularz → gotowe linki (Google Flights w PLN, Ryanair, Wizz Air, Skyscanner, Booking.com, transfery, skutery, e-bike, rowery, tanie jedzenie),
+Formularz → prawdziwe wyniki lotów Ryanair (publiczne API cen, CORS) + gotowe linki (Google Flights w PLN, Ryanair, Wizz Air, Skyscanner, Booking.com, transfery, skutery, e-bike, rowery, tanie jedzenie),
 plan dnia po dniu, szacunek budżetu, pogoda (Open-Meteo), raport A4 (druk / PDF) i PDF do pobrania.
 
 **Nic nie jest rezerwowane ani opłacane – aplikacja tylko generuje linki.** Ceny w aplikacji to szacunki.
 
-- Na żywo: https://wwieczor-commits.github.io/planer-podrozy-sowa/
+- Na żywo: https://wwieczor-commits.github.io/andrzejsowa/
 - Testy: `python3 -m http.server 8765` i `python3 tests/test_e2e.py`
 - Biblioteki: jsPDF + jsPDF-AutoTable (MIT), font Inter (SIL OFL 1.1), dane pogodowe Open-Meteo.com (CC BY 4.0).
 
